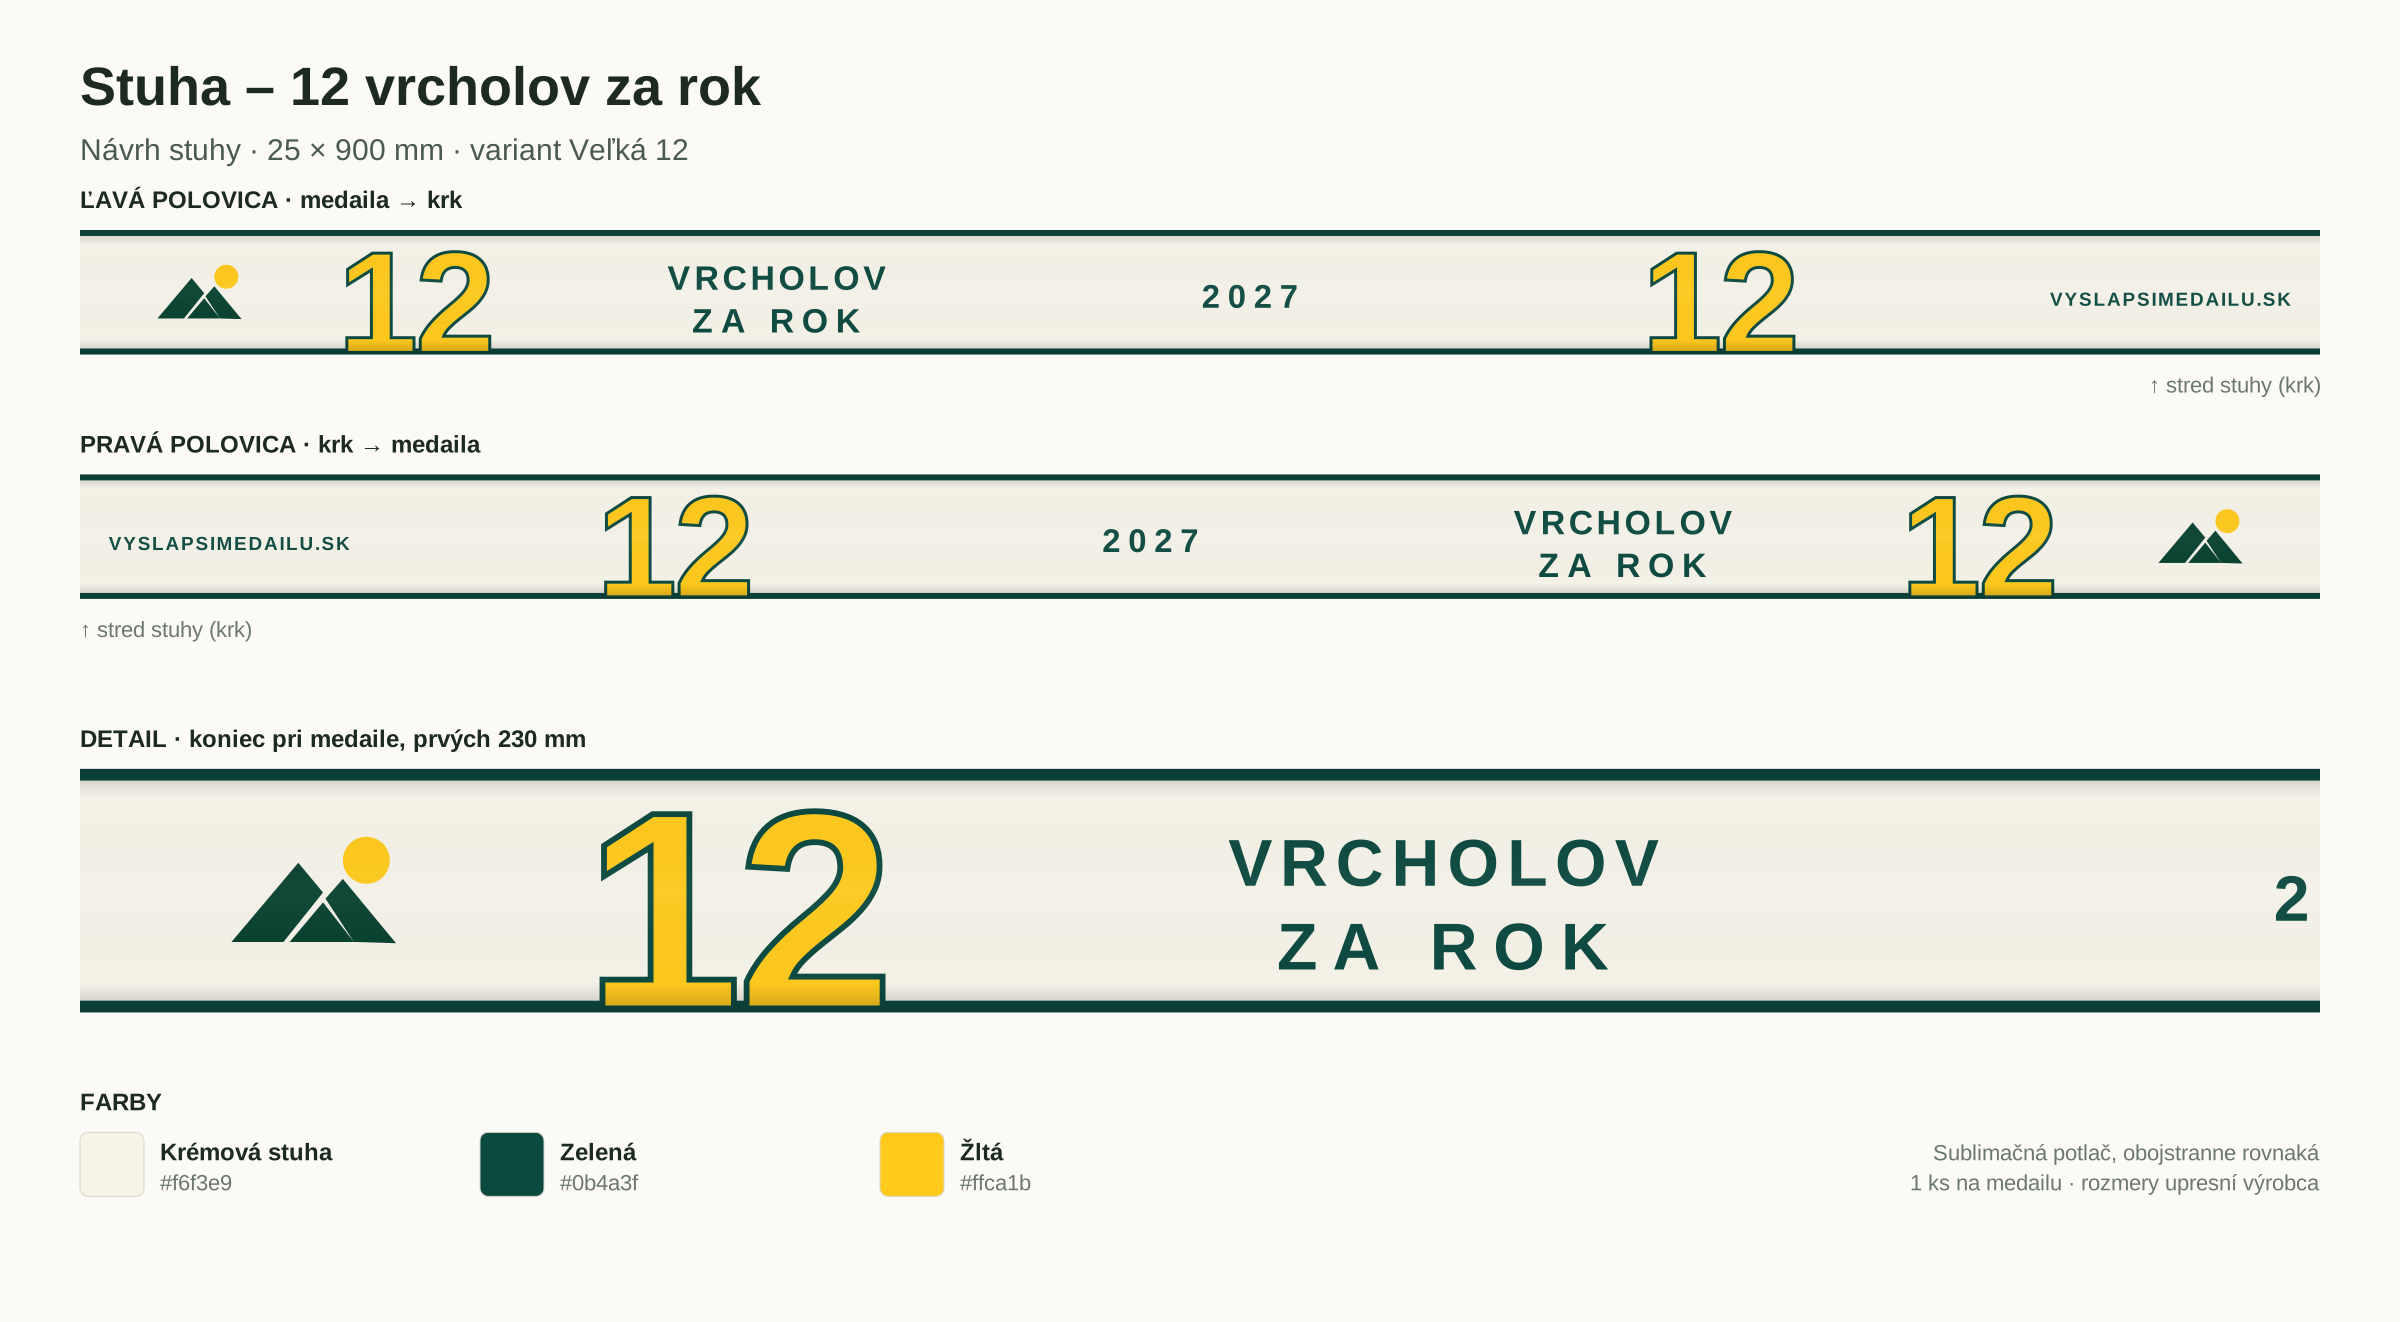
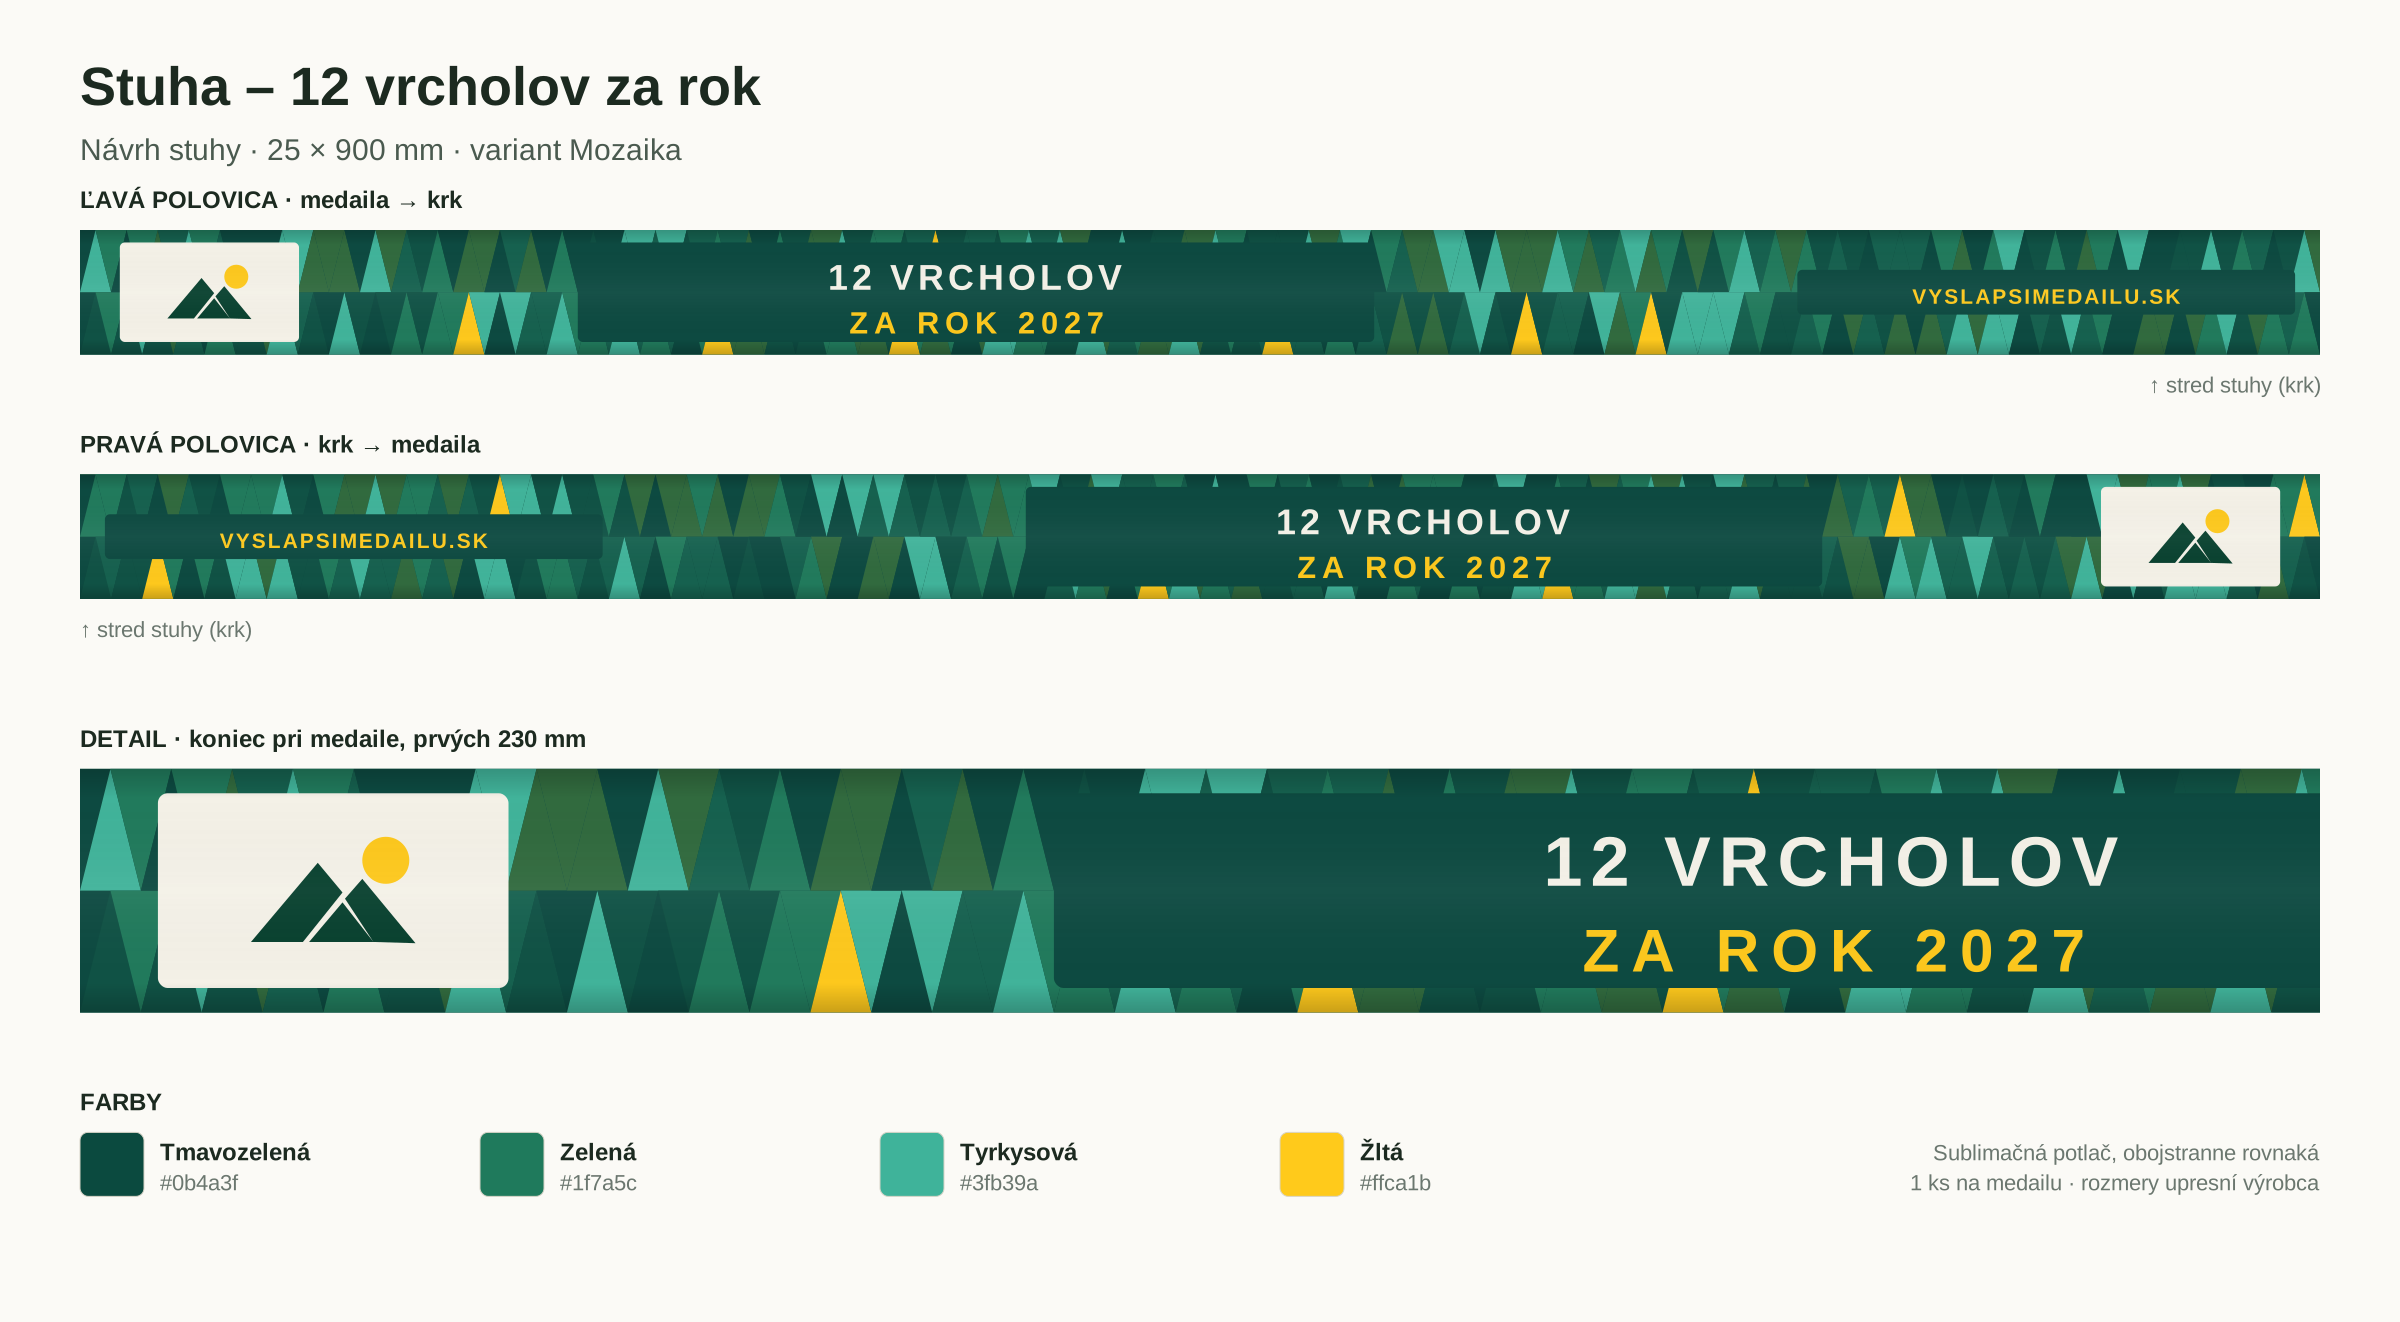
12 vrcholov za rok: stuha Mozaika namiesto Veľká 12
Claude-Session: https://claude.ai/code/session_01Jian3QXCLWsr4BC7Ee7LCc

diff --git a/medaily/_nastroje/vrcholy12b.py b/medaily/_nastroje/vrcholy12b.py
@@ -122,8 +122,8 @@ if __name__ == "__main__":
 def finalna(out):
     import stuhy as st
     from stuhy import DLZKA
-    svg, s = st.harok("Stuha – 12 vrcholov za rok", "Návrh stuhy · 25 × 900 mm · variant Veľká 12", KREM, v8,
-                      [("Krémová stuha", KREM), ("Zelená", ZEL), ("Žltá", ZLTA)], ks="1 ks na medailu")
+    svg, s = st.harok("Stuha – 12 vrcholov za rok", "Návrh stuhy · 25 × 900 mm · variant Mozaika", ZEL, v9,
+                      [("Tmavozelená", ZEL), ("Zelená", "#1f7a5c"), ("Tyrkysová", TYRK), ("Žltá", ZLTA)], ks="1 ks na medailu")
     uloz(svg, f"{out}/stuha-12-vrcholov-2027.png")
     uloz(f'<svg xmlns="http://www.w3.org/2000/svg" width="9000" height="250" viewBox="0 0 {DLZKA} {SIRKA}">{s}</svg>', f"{out}/stuha-12-vrcholov-2027-tlac.png")
     open(f"{out}/stuha-12-vrcholov-2027-tlac.svg", "w").write(

diff --git a/medaily/README.md b/medaily/README.md
@@ -16,7 +16,7 @@ Každá výzva má svoj priečinok:
 | Tatranské plesá 2027 | ✅ (dočasná, nová v návrhu) | ✅ finálna |
 | Cesta SNP 2027 | ✅ | ✅ finálna (turistická značka, 770 km – overiť) |
 | Východ slnka na vrchole 2027 | ✅ | ✅ finálna (retro pruhy) |
-| 12 vrcholov za rok 2027 | ✅ | ✅ finálna (Veľká 12) |
+| 12 vrcholov za rok 2027 | ✅ | ✅ finálna (Mozaika) |
 | **Tatry 2027** (prémiová, 5 medailí) | | |
 | ↳ Rysy | ✅ finálna | ✅ finálna |
 | ↳ Kriváň | ✅ finálna | ✅ finálna |
